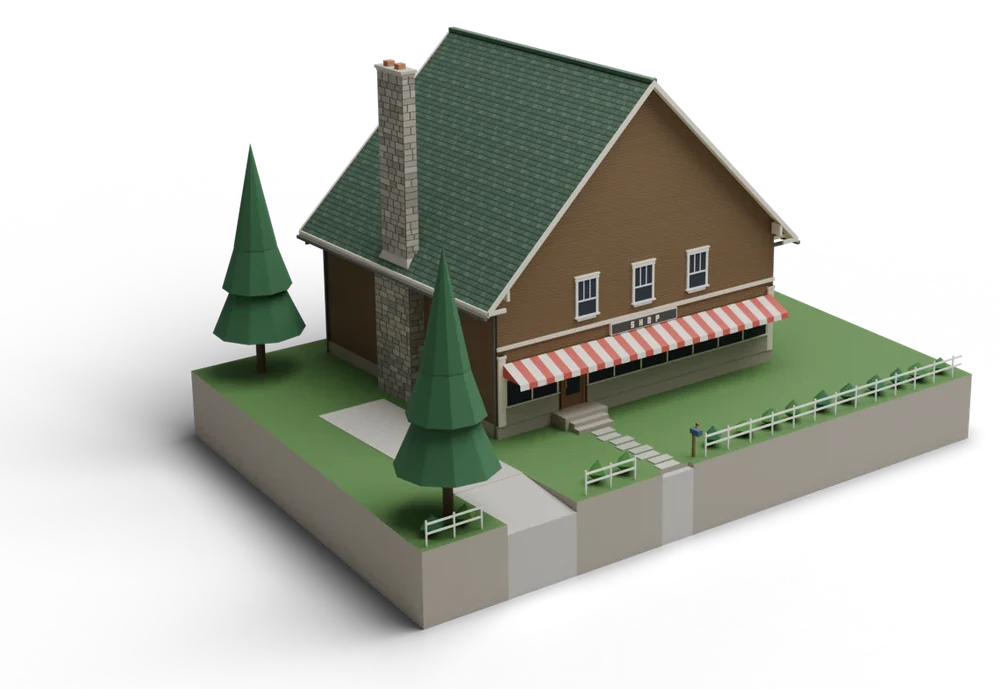
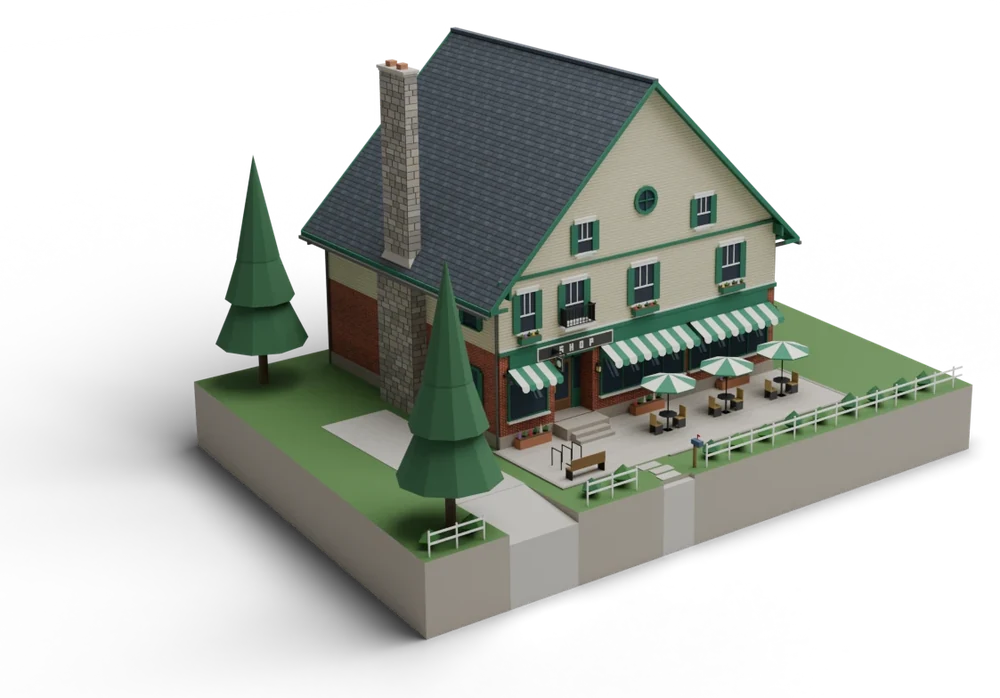
Licence cards: the ladder reads Personal < Commercial < Patron (Standard house for Personal, new mixed-use shop for Commercial) (#46)

diff --git a/app/dogcity/dogcity-data.ts b/app/dogcity/dogcity-data.ts
@@ -293,7 +293,7 @@ export const TIERS = [
       "Early access to the game, to every test and every update",
     ],
     building: {
-      src: "/landing/licences/building-personal.webp", w: 1000, h: 632,
+      src: "/landing/licences/building-personal.webp", w: 1000, h: 591,
       kind: "A RESIDENCE", note: "Example from the district catalogue. The style depends on your district.",
       alt: "Example of a residence from the DogCity district catalogue: a house with a yard on its own lot",
     },
@@ -313,9 +313,9 @@ export const TIERS = [
       "Vehicles: the $DOG moto and an orange Cyber $DOG",
     ],
     building: {
-      src: "/landing/licences/building-commercial.webp", w: 1000, h: 689,
+      src: "/landing/licences/building-commercial.webp", w: 1000, h: 698,
       kind: "MIXED USE: SHOP BELOW, HOME ABOVE", note: "Example from the district catalogue. The style depends on your district.",
-      alt: "Example of a mixed-use building from the DogCity district catalogue: a house with a shop on the ground floor, a glass shop front, a striped awning and a shop sign, with the home above",
+      alt: "Example of a mixed-use building from the DogCity district catalogue: a cream house with a red brick shop on the ground floor, glass shop windows under green striped awnings, a cafe terrace with tables and parasols, and a home above",
     },
     vehicles: [
       VEHICLE_MOTO,
